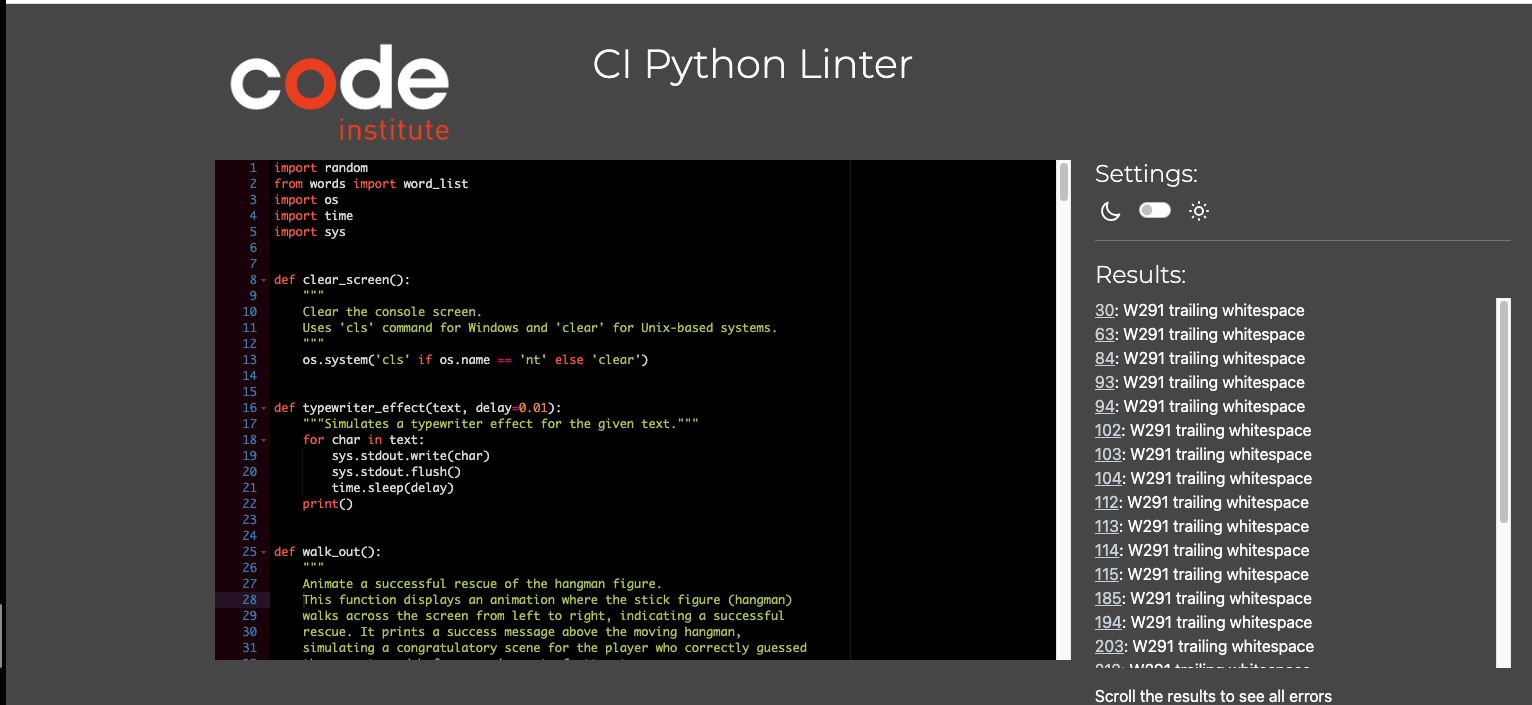
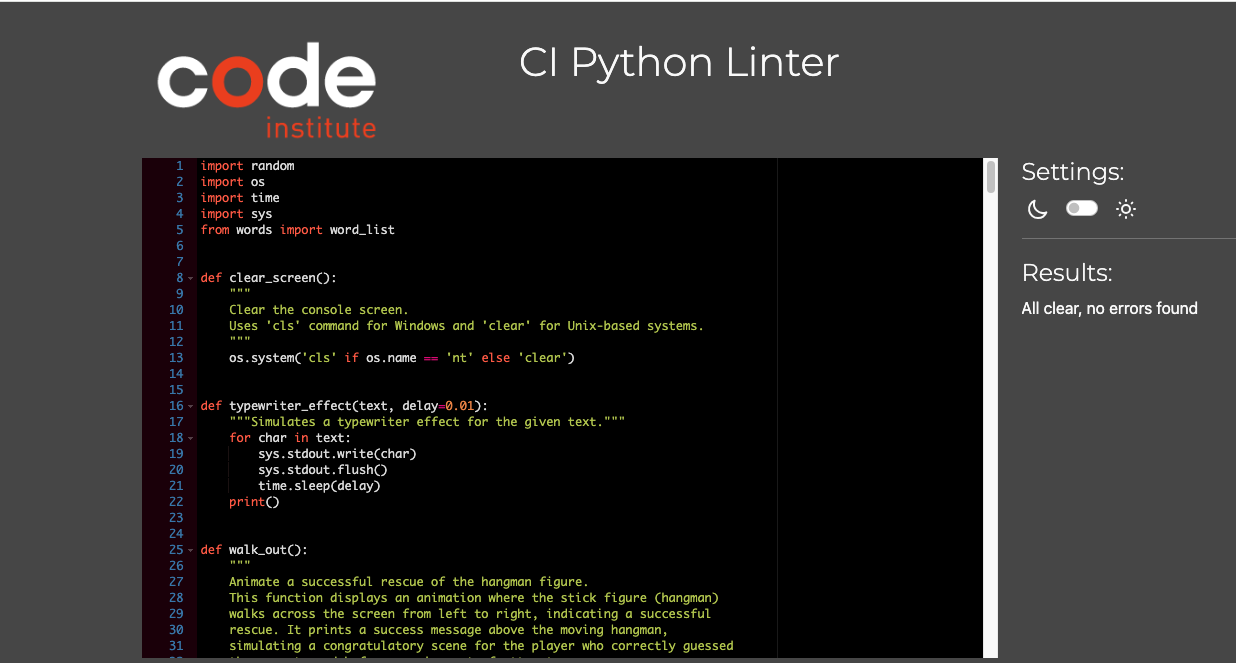
Update validator testing section

Changed region(s): [[0.0922, 0.0603, 1.0, 1.0], [0.0, 0.0, 1.0, 1.0], [0.3689, 0.0603, 0.6764, 0.1207]]

diff --git a/README.md b/README.md
@@ -185,17 +185,7 @@ The life bar in the Word Quest comprises six pure white hearts, each representin
 
 To ensure code quality and adherence to PEP 8 standards, each file in this project was validated using the [CI Python Linter](https://pep8ci.herokuapp.com/).
 
-Code Style Note for run.py
-
-In our run.py file, which contains the main game logic for Hangman, there are some style warnings that may be triggered when analyzed by linters. These warnings are all W291: Trailing whitespace, occurring on lines 57, 66, 75, 84, 91, 92, 93, 99, 100, 101, and 102. Trailing whitespace refers to extra spaces at the end of code lines.
-
-It's important to understand that these style suggestions don't affect the game's functionality or execution in any way. They're purely cosmetic recommendations from the PEP 8 style guide for Python.
-
-The Hangman game runs correctly and provides the full intended experience regardless of these warnings in run.py. Players can enjoy all features - guessing letters, decoding words, and immersing in the secret agent theme - without any impact from these style considerations.
-
-For the moment, we've decided to keep the code in run.py as it is. However, if we discover any problems, bugs, or issues affecting the game, we will fix them immediately. We want to emphasize that these particular style warnings in run.py do not affect the game or the code's functionality in any way.
-
-We may address these style issues in future updates, but they don't detract from the current gameplay. Enjoy your Hangman adventure, agents!
+A thorough check of both the word list and the main program files has been completed, and no errors were detected.  This indicates that everything is currently functioning as expected.  We maintain an ongoing commitment to monitoring the system and will swiftly address any problems that may arise in the future.  Rest assured that we're dedicated to maintaining a smooth and error-free experience.
 
 *run.py Validation*<br>
 ![run.py Validation](docs/screenshots/runpy.png)
